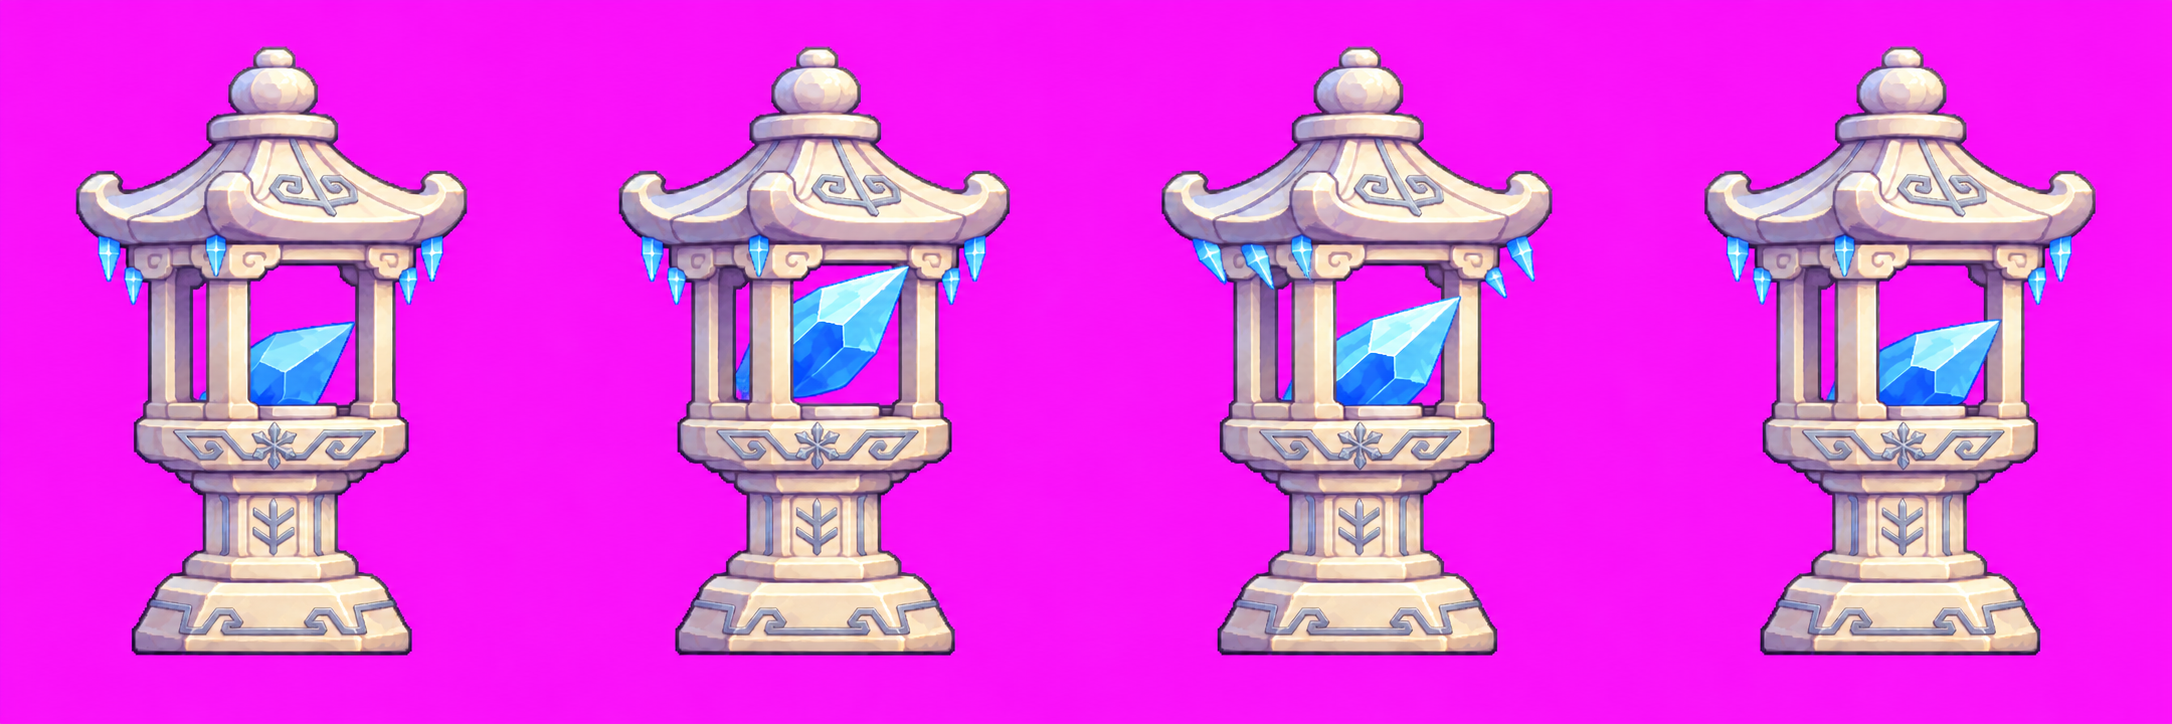
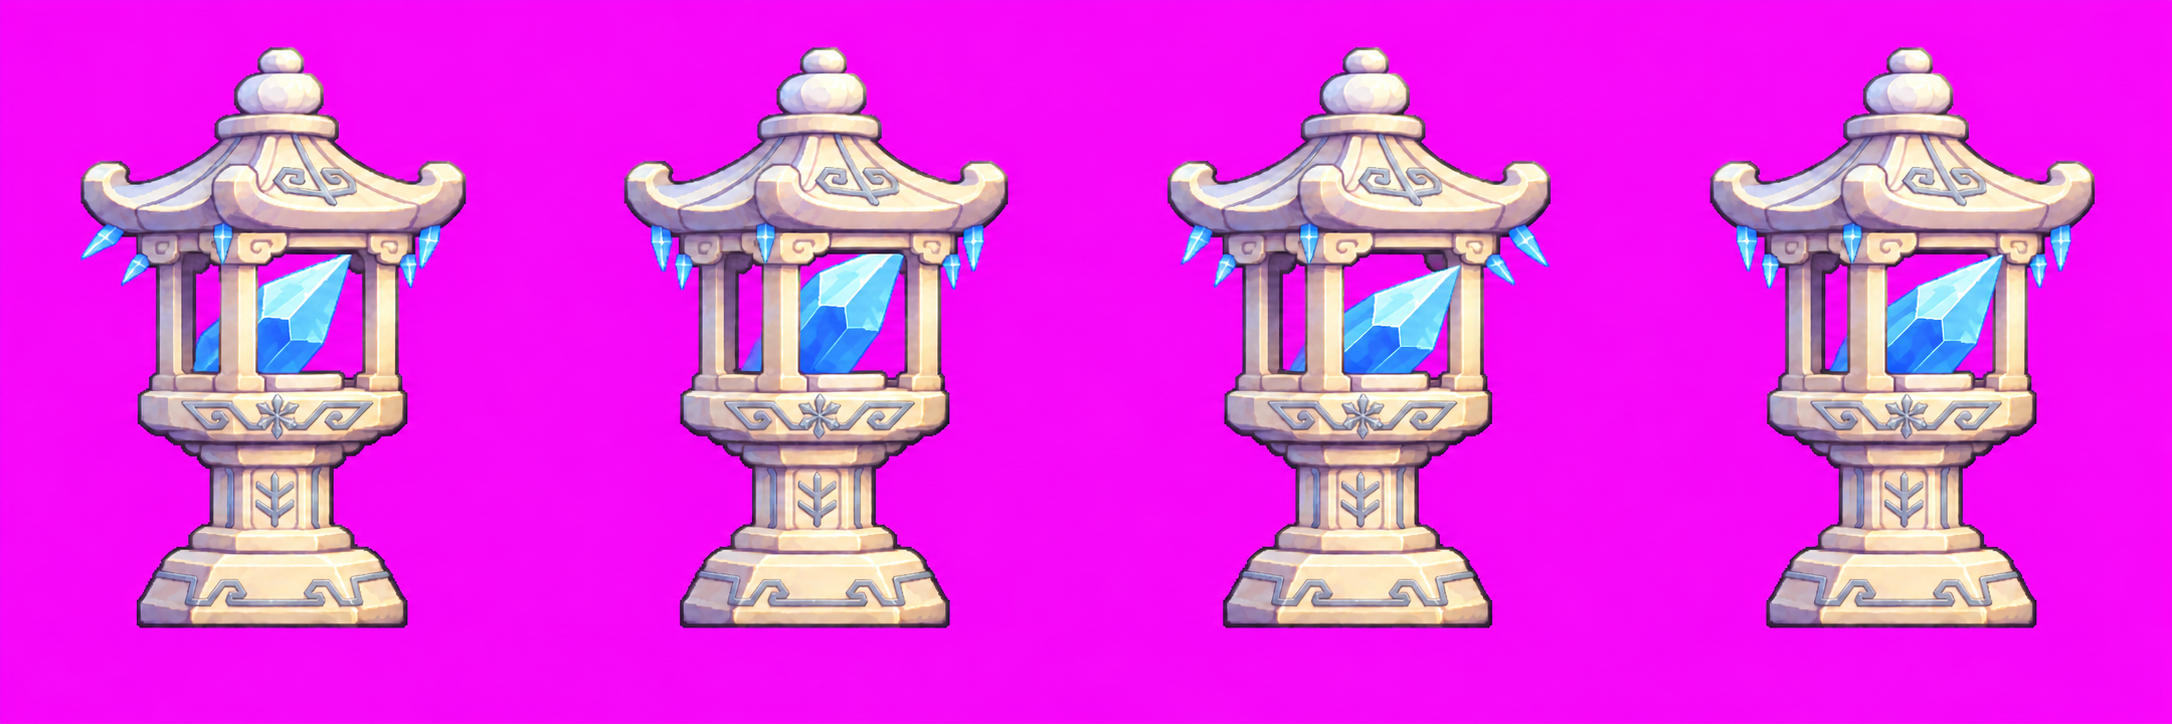
art(batch2): revise locked proportions of frost__t2__attack.png

diff --git a/idle-td-art/batch2/ORDER-B2.md b/idle-td-art/batch2/ORDER-B2.md
@@ -116,7 +116,6 @@ Redraw image B frame by frame using the tier <N> design from image A: EXACTLY th
 | `images/frost__t2__stand.png` | 1254×1254 | 1 | 寒冰燈塔 2 階：白石銀霜紋、屋簷冰柱，依意見把晶體顯著放大並加深藍色。 |
 | `images/frost__t3__stand.png` | 1254×1254 | 1 | 寒冰燈塔 3 階：大型深藍懸浮晶球、銀色塔頂、冰晶立柱與底座尖晶、三枚浮雪晶。 |
 | `images/frost__t1__attack.png` | 2172×724 | 4 | 寒冰燈塔 1 階攻擊四格：晶體後縮、升高變亮、向右推與復位，燈座不動。 |
-| `images/frost__t2__attack.png` | 2172×724 | 4 | 寒冰燈塔 2 階攻擊四格：大型藍晶體依序後縮、上升、右推、復位，簷下冰柱擺動。 |
 | `images/frost__t3__attack.png` | 2172×724 | 4 | 寒冰燈塔 3 階攻擊四格：大型藍晶球移動、三枚浮雪晶各格位移、冰柱擺動；已加強初稿的浮晶動作。 |
 | `images/talisman__t2__stand.png` | 1254×1254 | 1 | 符咒塔 2 階：紅漆金箍柱、六張黃符、青銅墨盂與朝右毛筆。 |
 | `images/talisman__t3__stand.png` | 1254×1254 | 1 | 符咒塔 3 階：金黑漆柱、盤柱玉龍、兩排黃紫符紙與懸浮毛筆。 |
@@ -127,6 +126,7 @@ Redraw image B frame by frame using the tier <N> design from image A: EXACTLY th
 | `images/furnace__t2__attack.png` | 2172×724 | 4 | 09:35 返工修正版：青銅爐身不擠壓、不拉長，只動蓋與炮口；第 4 格關蓋，比例已重新對照站立。 |
 | `images/furnace__t3__attack.png` | 2172×724 | 4 | 09:35 返工修正版：金色爐身固定，只有爐蓋起落與龍口微縮；第 4 格回到站立圖微浮蓋位置。 |
 | `images/bell__t1__attack.png` | 2172×724 | 4 | 09:35 返工修正版：重對木架高寬與底座比例；鐘槌敲擊、鐘身擺動，第 4 格回原站立。 |
+| `images/frost__t2__attack.png` | 2172×724 | 4 | 09:35 返工修正版：保留大藍晶體，四格只移位；冰柱擺動、塔身固定，第 4 格回到站立。 |
 
 原檔 SHA-256：
 
@@ -149,7 +149,6 @@ Redraw image B frame by frame using the tier <N> design from image A: EXACTLY th
[7 lines of base64/hex data omitted]
@@ -160,6 +159,7 @@ Redraw image B frame by frame using the tier <N> design from image A: EXACTLY th
[4 lines of base64/hex data omitted]
 
 ## 意見與待辦
 
@@ -176,3 +176,4 @@ Redraw image B frame by frame using the tier <N> design from image A: EXACTLY th
     - `frost__t2__attack.png`、`frost__t3__attack.png`：水晶（2 階）和水晶球（3 階）在攻擊格裡變小，第 4 格跟站立圖不一樣。水晶大小每格照站立圖，只移動位置；第 4 格＝站立。
   - 順序：先畫完 README 的神獸 v2 站立 4 張，再補這 6 張，推 `dot/idle-td-b2`。
 - 2026-11-04 09:50 TW　**`furnace__t1__attack.png`、`furnace__t2__attack.png` 重畫版通過**：爐身每格不變形，只有爐蓋上下，第 4 格＝站立（量到的高度變化只來自爐蓋）。剩 furnace t3、bell t1、frost t2、frost t3。
+- 2026-11-04 10:00 TW　**`furnace__t3__attack.png`、`bell__t1__attack.png` 重畫版通過**（丹爐只有爐蓋在動；鐘塔每格高寬差 2～3
